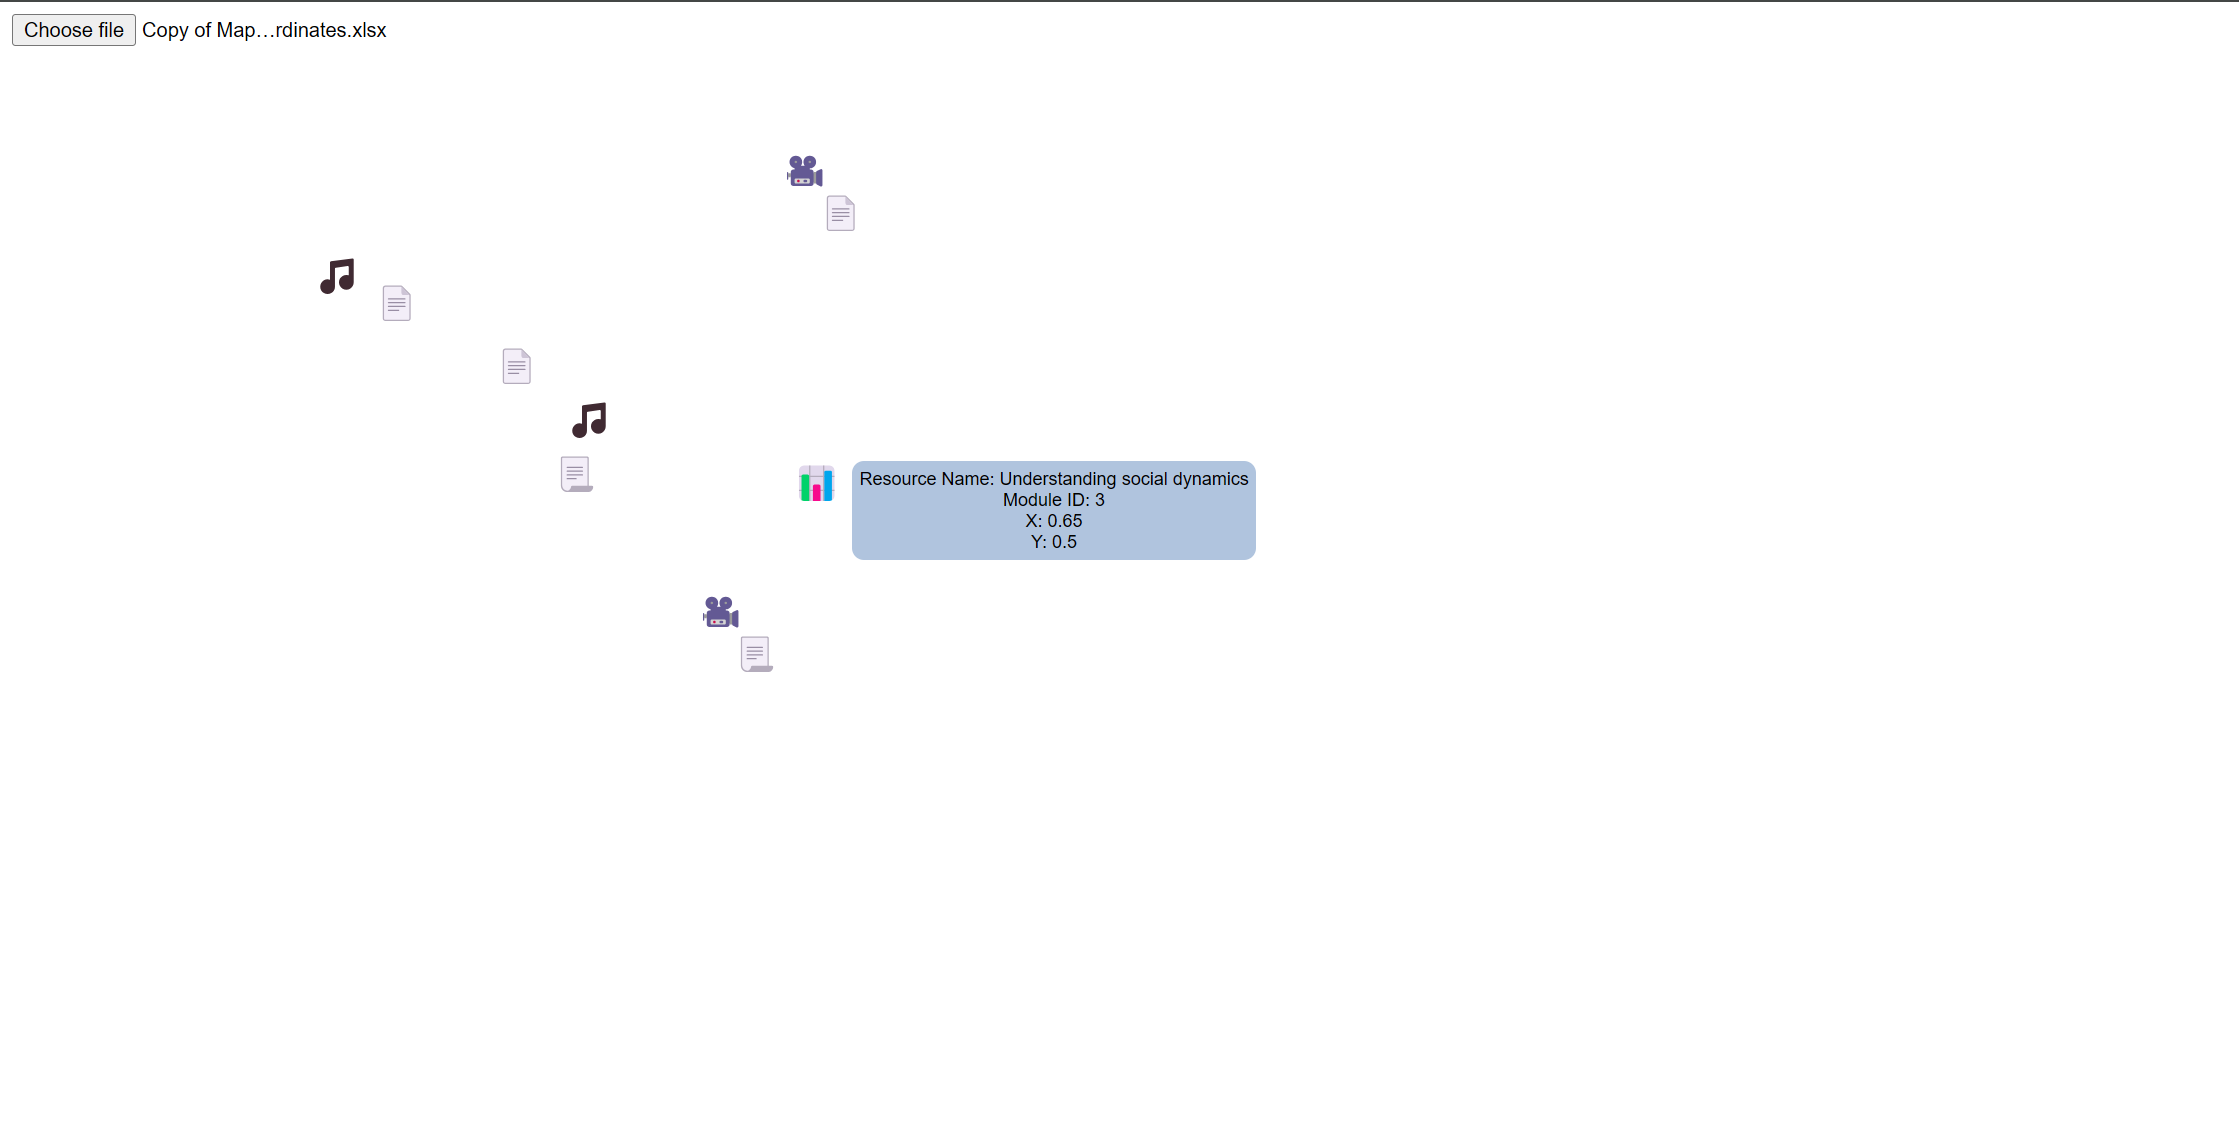
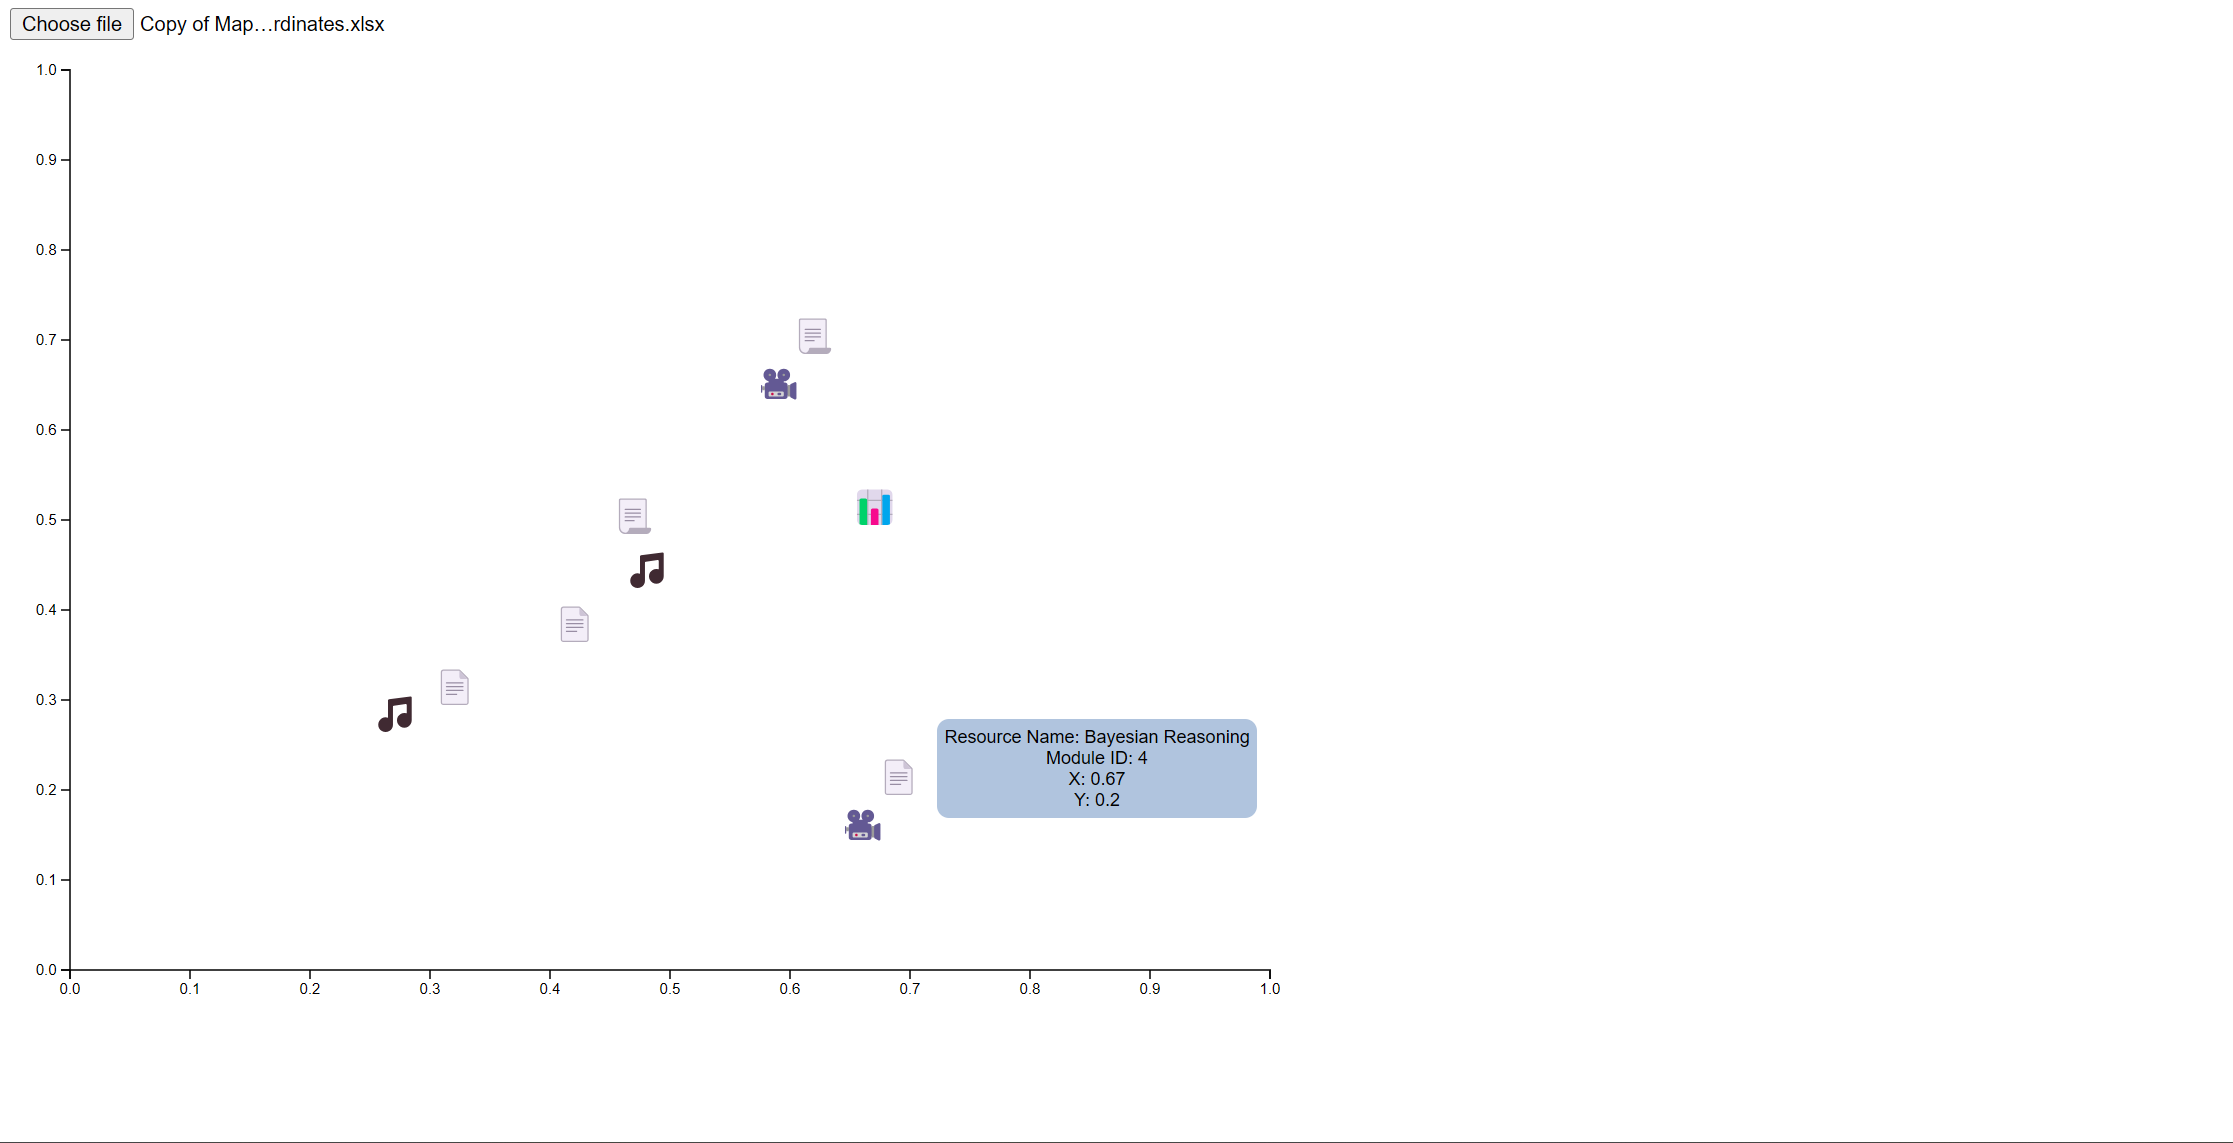
readme updated

diff --git a/script.js b/script.js
@@ -26,12 +26,15 @@ function visualizeData(data) {
     // Define SVG dimensions
     const width = 800;
     const height = 600;
+    const margin = { top: 20, right: 30, bottom: 40, left: 40 };
 
     // Create SVG element
     const svg = d3.select("#map")
                   .append("svg")
-                  .attr("width", width)
-                  .attr("height", height);
+                  .attr("width", width + margin.left + margin.right)
+                  .attr("height", height + margin.top + margin.bottom)
+                  .append("g")
+                  .attr("transform", `translate(${margin.left},${margin.top})`);
 
     // Define scales for coordinates
     const xScale = d3.scaleLinear()
@@ -40,7 +43,7 @@ function visualizeData(data) {
 
     const yScale = d3.scaleLinear()
                      .domain([0, 1])
-                     .range([0, height]);
+                     .range([height, 0]); // Flip y-axis
 
     // Define icons for file types
     const icons = {
@@ -50,6 +53,15 @@ function visualizeData(data) {
         "mp3": "🎵",
         "pptx": "📊"
     };
+
+    // Add x-axis
+    svg.append("g")
+       .attr("transform", `translate(0, ${height})`)
+       .call(d3.axisBottom(xScale));
+
+    // Add y-axis
+    svg.append("g")
+       .call(d3.axisLeft(yScale));
 
     // Add tooltip element
     const tooltip = d3.select("#tooltip");
